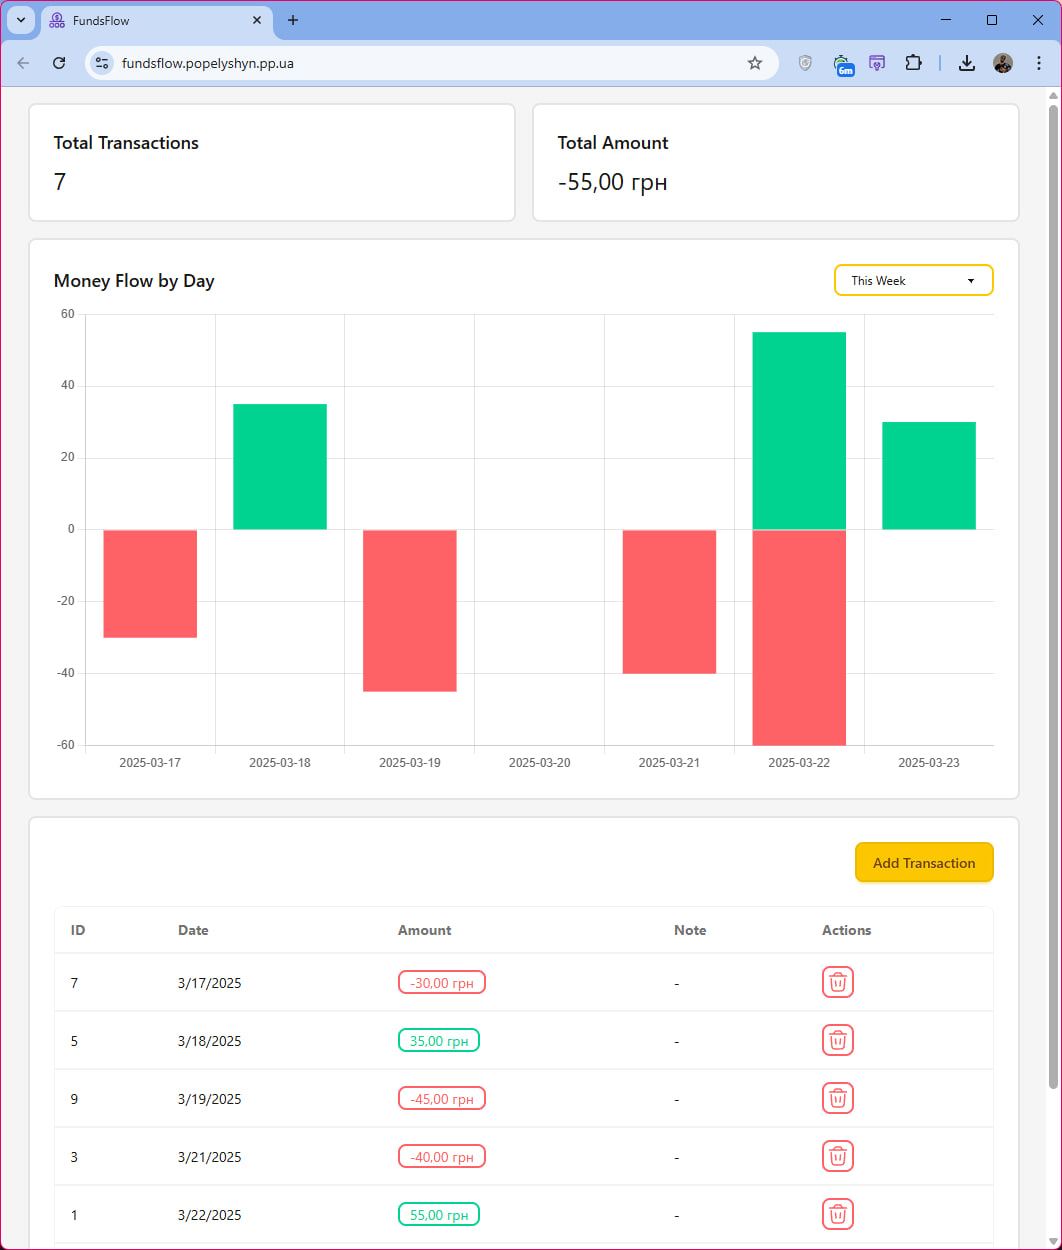
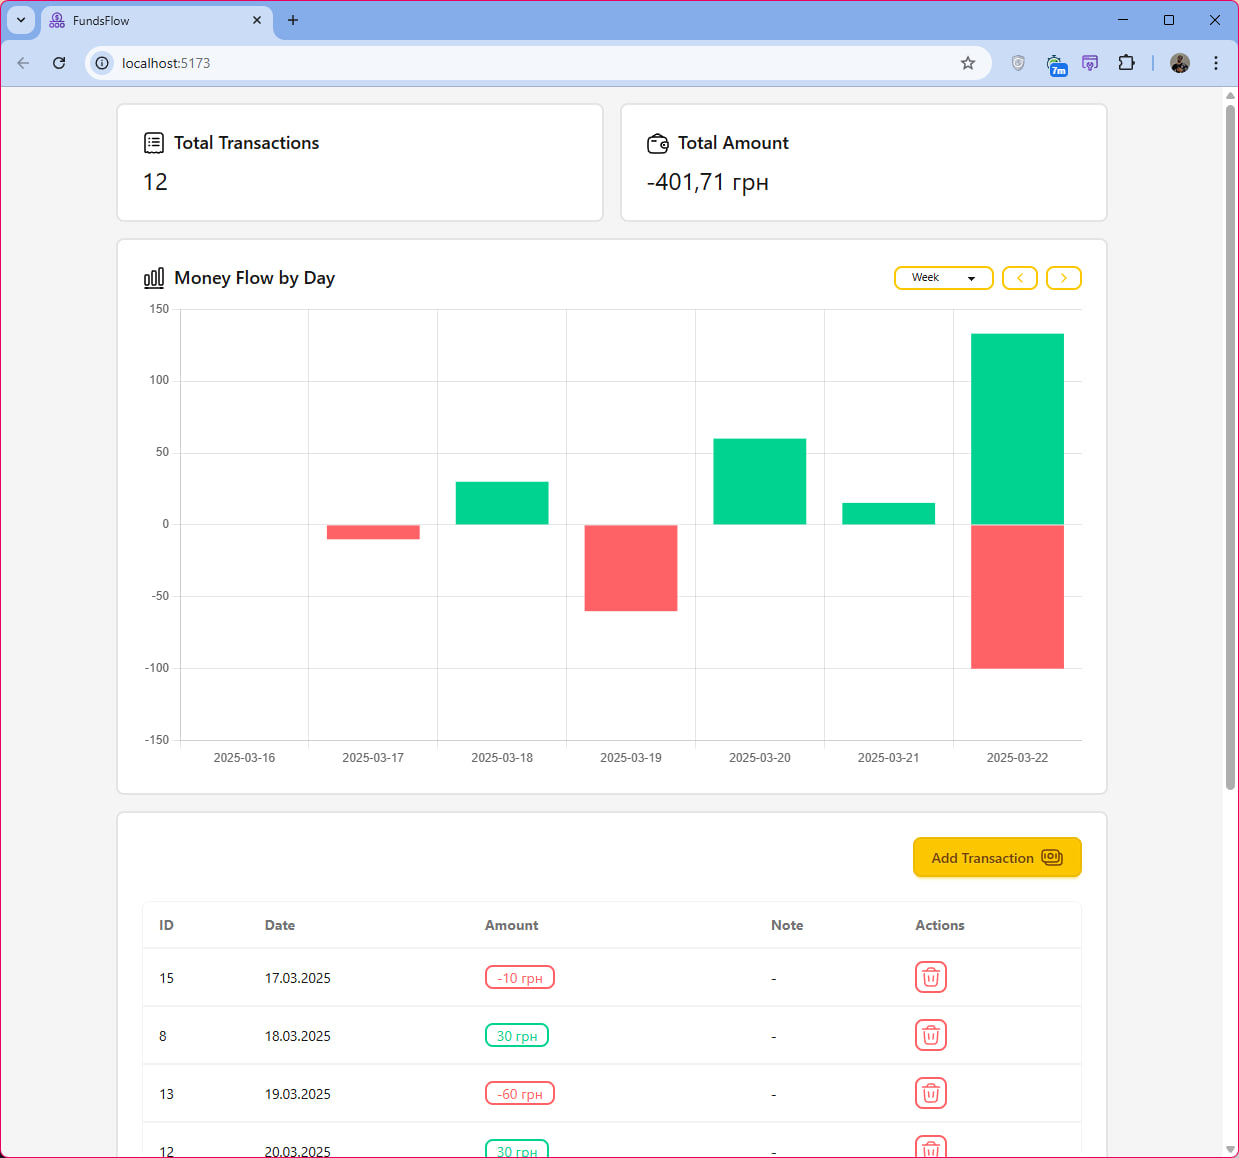
FlowByDayChart
- improved selector

diff --git a/src/charts/FlowByDayChart.vue b/src/charts/FlowByDayChart.vue
@@ -16,12 +16,27 @@
                     Money Flow by Day
                 </h2>
 
-                <select class="select select-sm select-primary w-40" v-model="selectedRange">
-                    <option value="thisWeek">This Week</option>
-                    <option value="lastWeek">Last Week</option>
-                    <option value="thisMonth">This Month</option>
-                    <option value="lastMonth">Last Month</option>
-                </select>
+                <div class="flex items-center gap-2">
+                    <select class="select select-xs select-primary w-25 cursor-pointer" v-model="selectedRange">
+                        <option value="week">Week</option>
+                        <option value="month">Month</option>
+                        <!-- <option value="year">Year</option> -->
+                    </select>
+
+                    <button class="btn btn-xs btn-outline btn-primary" @click="adjustPeriod(-1)">
+                        <svg xmlns="http://www.w3.org/2000/svg" width="16" height="16" viewBox="0 0 24 24" fill="none"
+                            stroke="currentColor" stroke-width="2" stroke-linecap="round" stroke-linejoin="round">
+                            <path d="m15 18-6-6 6-6" />
+                        </svg>
+                    </button>
+
+                    <button class="btn btn-xs btn-outline btn-primary" @click="adjustPeriod(1)">
+                        <svg xmlns="http://www.w3.org/2000/svg" width="16" height="16" viewBox="0 0 24 24" fill="none"
+                            stroke="currentColor" stroke-width="2" stroke-linecap="round" stroke-linejoin="round">
+                            <path d="m9 18 6-6-6-6" />
+                        </svg>
+                    </button>
+                </div>
             </div>
 
             <BarChart :data="chartData" :options="chartOptions" />
@@ -31,7 +46,7 @@
 
 <script setup>
 import { BarElement, CategoryScale, Chart as ChartJS, Legend, LinearScale, Tooltip } from 'chart.js'
-import { computed, inject, ref } from 'vue'
+import { computed, ref } from 'vue'
 import { Bar as BarChart } from 'vue-chartjs'
 
 ChartJS.register(Tooltip, BarElement, CategoryScale, LinearScale, Legend)
@@ -43,7 +58,8 @@ const props = defineProps({
     },
 })
 
-const selectedRange = ref('thisWeek')
+const selectedRange = ref('week')
+const periodOffset = ref(0)
 
 const getDateRange = () => {
     const today = new Date()
@@ -53,29 +69,27 @@ const getDateRange = () => {
     let endDate
 
     switch (selectedRange.value) {
-        case 'thisWeek':
+        case 'week':
             startDate = new Date(today)
-            startDate.setDate(today.getDate() - today.getDay() + 1)
+            startDate.setDate(today.getDate() - today.getDay() + periodOffset.value * 7 + 1)
             endDate = new Date(startDate)
             endDate.setDate(startDate.getDate() + 6)
             break
-        case 'lastWeek':
-            startDate = new Date(today)
-            startDate.setDate(today.getDate() - today.getDay() - 6)
-            endDate = new Date(startDate)
-            endDate.setDate(startDate.getDate() + 6)
+        case 'month':
+            startDate = new Date(today.getFullYear(), today.getMonth() + periodOffset.value, 1)
+            endDate = new Date(today.getFullYear(), today.getMonth() + periodOffset.value + 1, 0)
             break
-        case 'thisMonth':
-            startDate = new Date(today.getFullYear(), today.getMonth(), 1)
-            endDate = new Date(today.getFullYear(), today.getMonth() + 1, 0)
-            break
-        case 'lastMonth':
-            startDate = new Date(today.getFullYear(), today.getMonth() - 1, 1)
-            endDate = new Date(today.getFullYear(), today.getMonth(), 0)
-            break
+        // case 'year':
+        //     startDate = new Date(today.getFullYear() + periodOffset.value, 0, 1)
+        //     endDate = new Date(today.getFullYear() + periodOffset.value, 11, 31)
+        //     break
     }
 
     return { startDate, endDate }
+}
+
+const adjustPeriod = (direction) => {
+    periodOffset.value += direction
 }
 
 const transactionsFormatted = computed(() => {
@@ -117,16 +131,12 @@ const chartData = computed(() => ({
     labels: Object.keys(transactionsFormatted.value),
     datasets: [
         {
-            label: 'Income',
             data: Object.values(transactionsFormatted.value).map((t) => t.positive),
             backgroundColor: 'oklch(76% 0.177 163.223)',
-            stack: 'Stack 0',
         },
         {
-            label: 'Expenses',
             data: Object.values(transactionsFormatted.value).map((t) => t.negative),
             backgroundColor: 'oklch(70% 0.191 22.216)',
-            stack: 'Stack 0',
         },
     ],
 }))
@@ -135,9 +145,6 @@ const chartOptions = {
     responsive: true,
     scales: {
         x: {
-            stacked: true,
-        },
-        y: {
             stacked: true,
         },
     },

diff --git a/src/modals/TransactionAddModal.vue b/src/modals/TransactionAddModal.vue
@@ -12,8 +12,8 @@
             <form @submit.prevent="transactionSubmit">
                 <input type="date" v-model="transaction.date" class="input w-full mb-4" required />
 
-                <input type="number" v-model="transaction.amount" class="input w-full mb-4" step="0.01"
-                    placeholder="Amount" required />
+                <input type="number" v-model="transaction.amount" class="input w-full mb-4" placeholder="Amount"
+                    step="0.01" required />
 
                 <input type="text" v-model="transaction.note" class="input w-full" placeholder="Note" />
 
